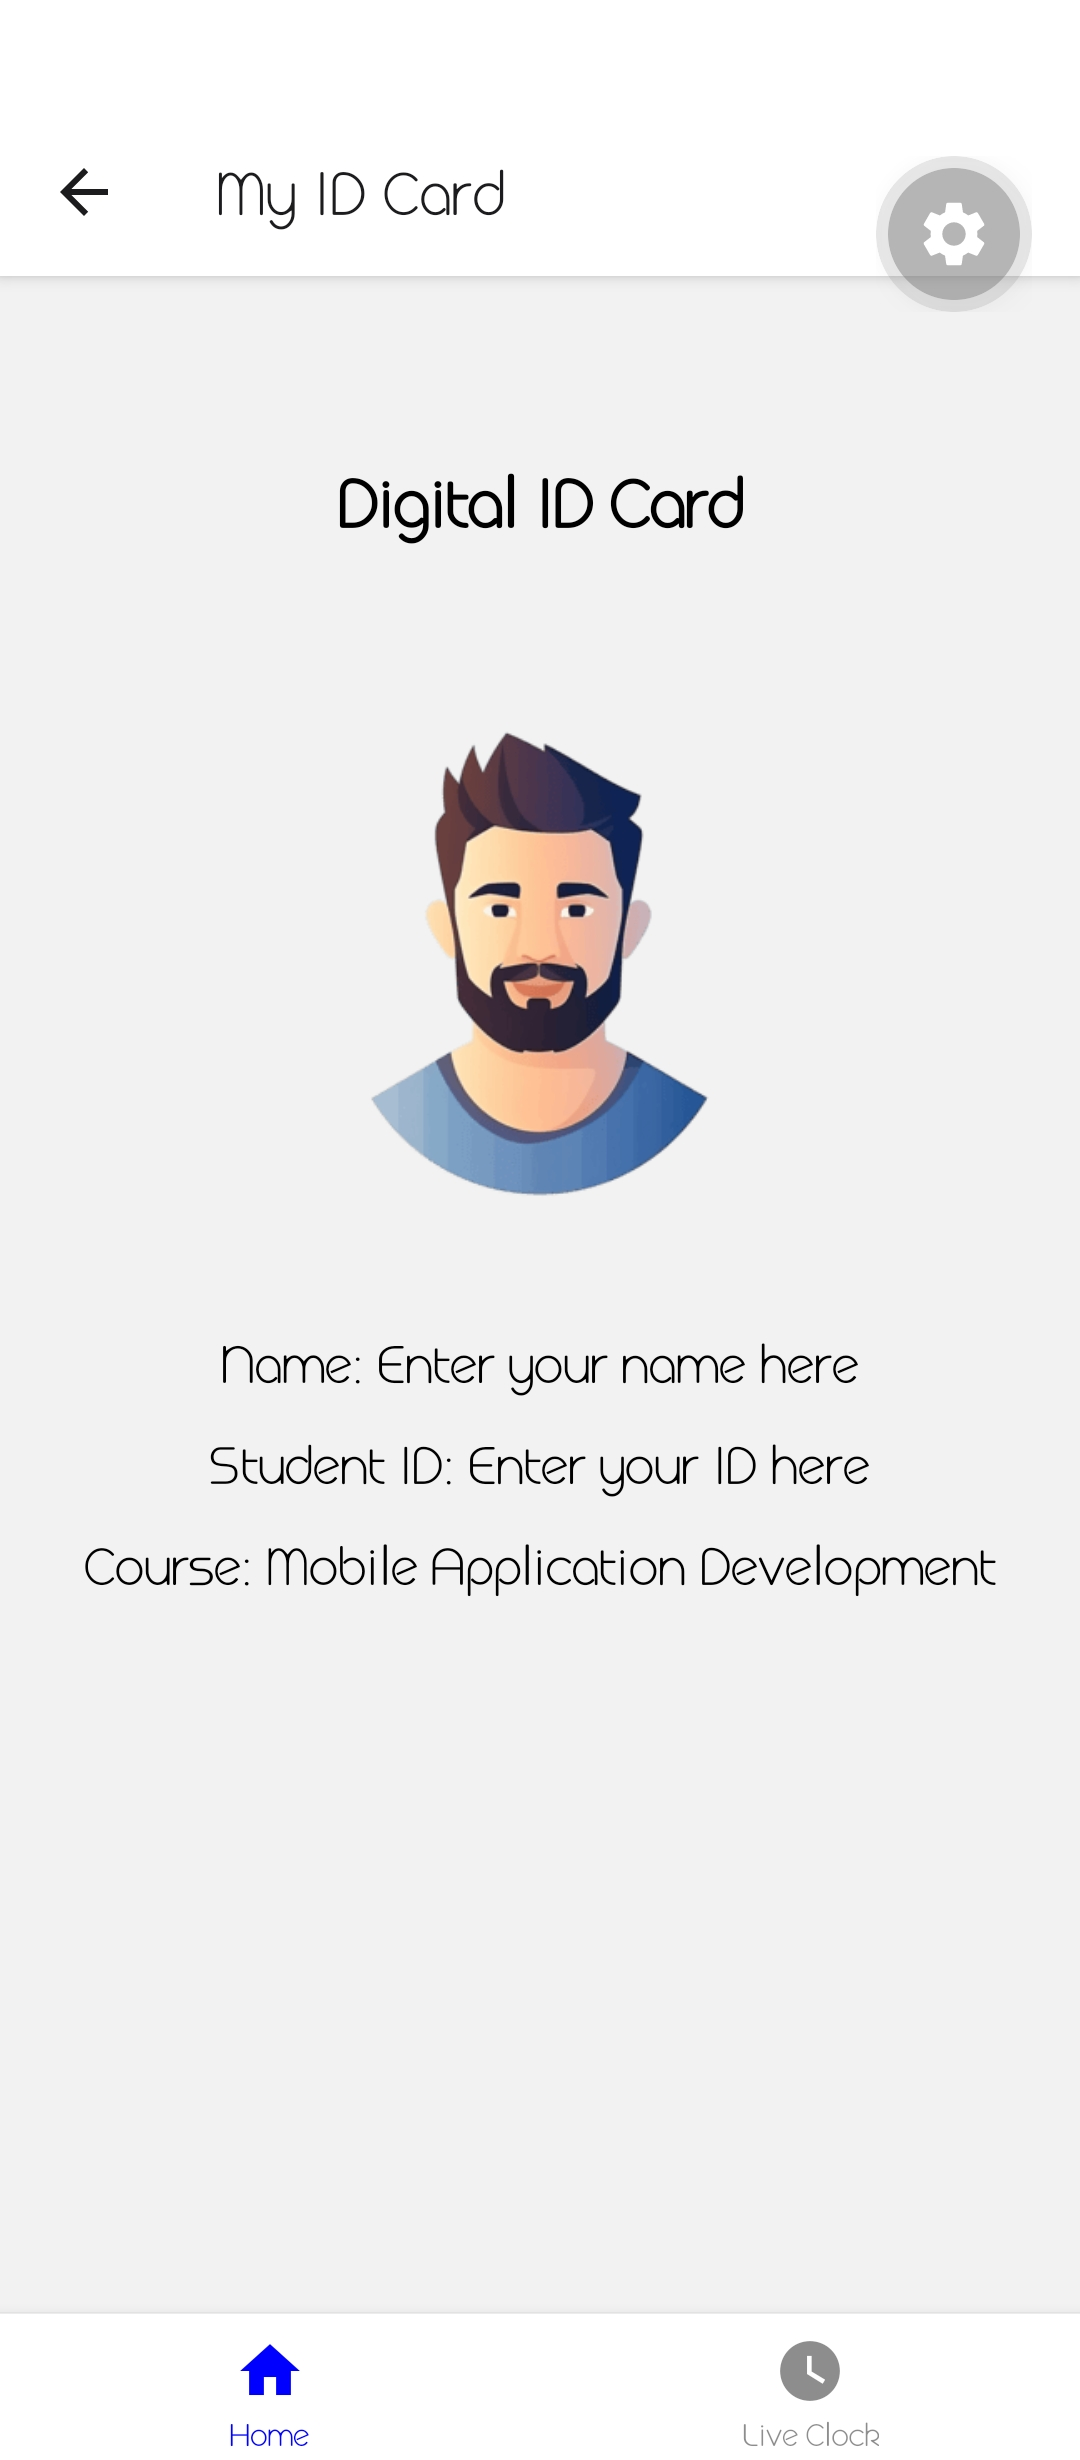
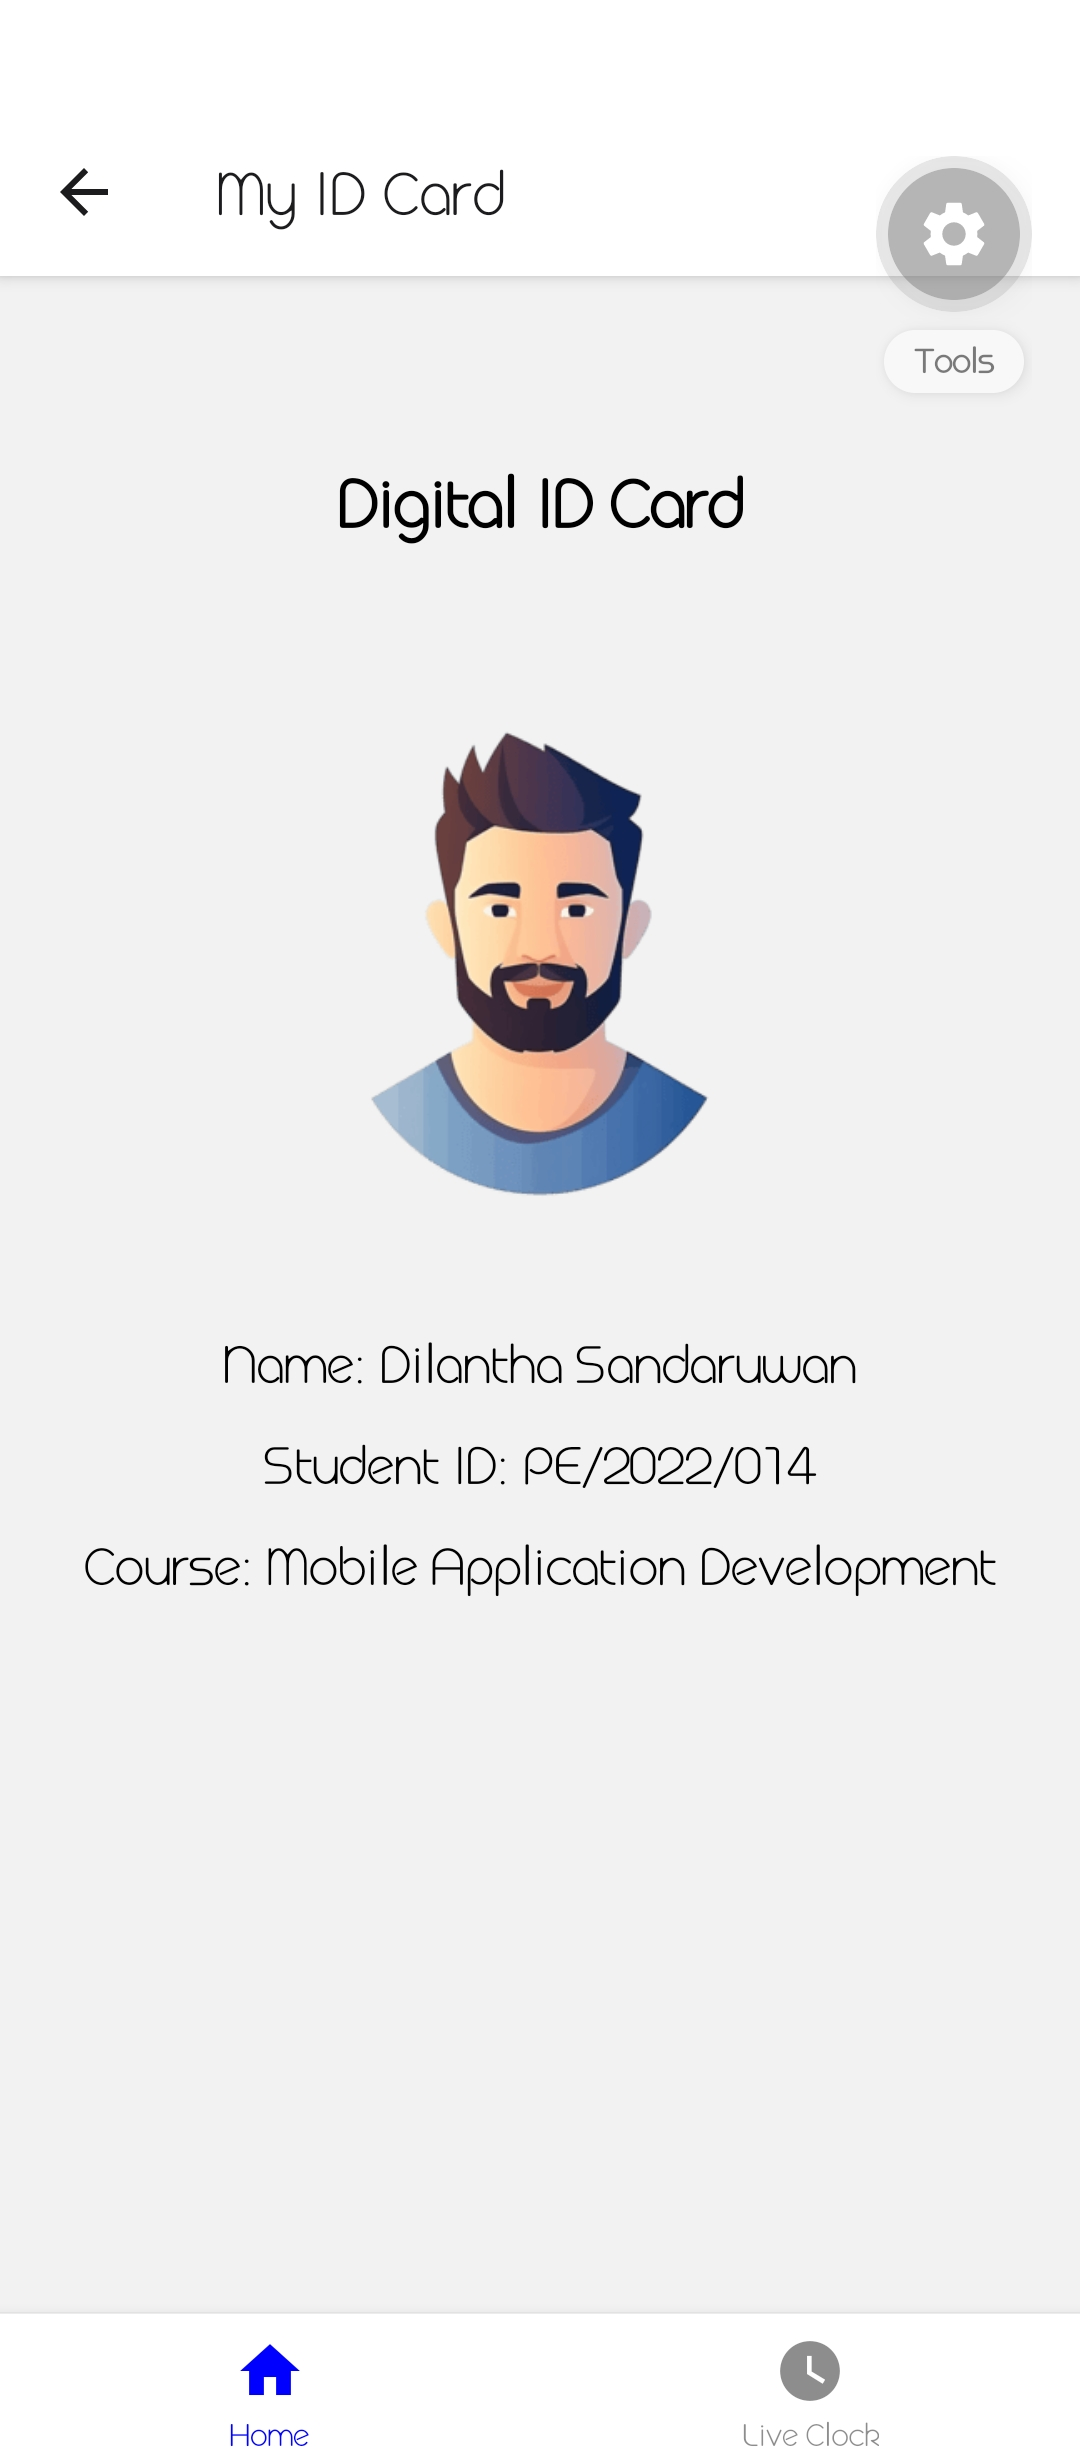
modified

Changed region(s): [[0.2139, 0.5252, 0.7944, 0.6179], [0.8556, 0.1236, 0.9167, 0.1545], [0.3972, 0.5252, 0.4583, 0.5561]]

diff --git a/src/app/(home)/details.tsx b/src/app/(home)/details.tsx
@@ -11,8 +11,8 @@ export default function DetailsScreen() {
         source={require("D:\\Academic Files\\3 rd Year\\Sem 02\\COST 32152-Mobile Application Development\\Labs\\Lab03\\StudentHub\\StudentHub\\assets\\images\\user.png")}
         style={styles.image}
       />
-      <Text style={styles.text}>Name: Enter your name here</Text>
-      <Text style={styles.text}>Student ID: Enter your ID here</Text>
+      <Text style={styles.text}>Name: Dilantha Sandaruwan</Text>
+      <Text style={styles.text}>Student ID: PE/2022/014</Text>
       <Text style={styles.text}>Course: Mobile Application Development</Text>
     </View>
   );
